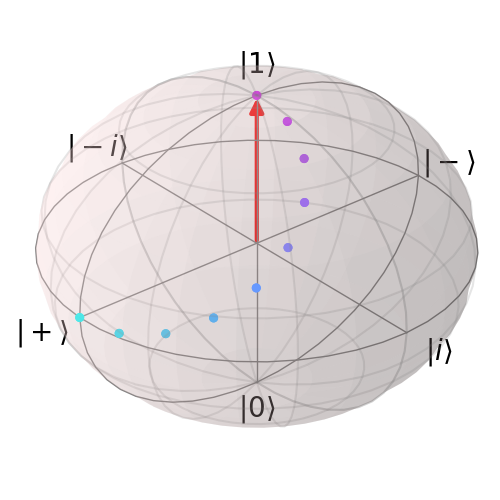
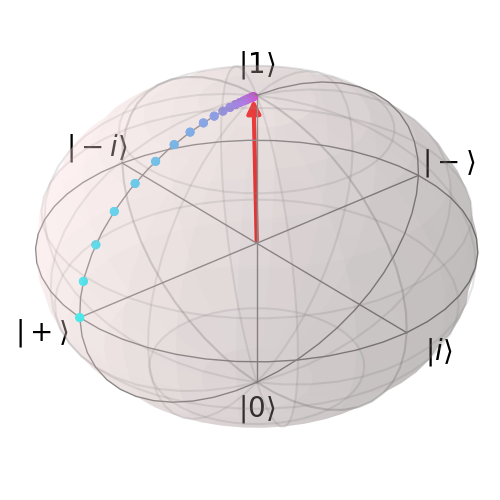
fenner

diff --git a/anim.py b/anim.py
@@ -6,10 +6,13 @@ from matplotlib import cm
 import imageio
 
 x = 1 / (np.sqrt(2))
-E = 3
+E = 1
 
 def farhi_gutman(x,E,t):
     return (np.exp(E*-1j*t)*((x*cos(E*x*t)- 1j*sin(E*x*t))*basis(2,0) + x*cos(E*x*t)*basis(2,1)))
+
+def fenner(E,t):
+    return ((1/(np.sqrt(2)))*((np.exp(E*t)+np.exp(E*2*t)*basis(2,0))+(np.exp(E*t)+1)*basis(2,1)))
 
 def scale_t(x,E,t):
     return t * 10 * pi * (1/x) * (1/(2*E*10))
@@ -21,7 +24,7 @@ def animate_bloch(states, duration=0.2, save_all=False):
     b.ylabel = ['$\\left|i\\right>$','$\\left|-i\\right>$']
     b.zlabel = ['$\\left|1\\right>$', '$\\left|0\\right>$']
     
-    b.add_states([farhi_gutman(x,E,0),farhi_gutman(x,E,scale_t(x,E,10))])
+    #b.add_states([farhi_gutman(x,E,0),farhi_gutman(x,E,scale_t(x,E,10))])
 
     b.vector_color = ['r']
     b.view = [-40,30]
@@ -51,15 +54,15 @@ def animate_bloch(states, duration=0.2, save_all=False):
             filename='temp_file.png'
             b.save(filename)
         images.append(imageio.imread(filename))
-    imageio.mimsave('bloch_anim.gif', images, duration=duration)
+    imageio.mimsave('bloch_anim2.gif', images, duration=duration)
 
 def main():
     states = []
     #ts = linspace(0,(pi*x*(1/30)),int((pi*x*(1/3))))
-    ts = linspace(0,1,10)
+    ts = linspace(0,2.1,21)
     for t in ts:
         t = scale_t(x,E,t)
-        states.append(farhi_gutman(x,E,t).unit())
+        states.append(fenner(E,t).unit())
     animate_bloch(states, duration=0.2, save_all=False)
 
 main()
